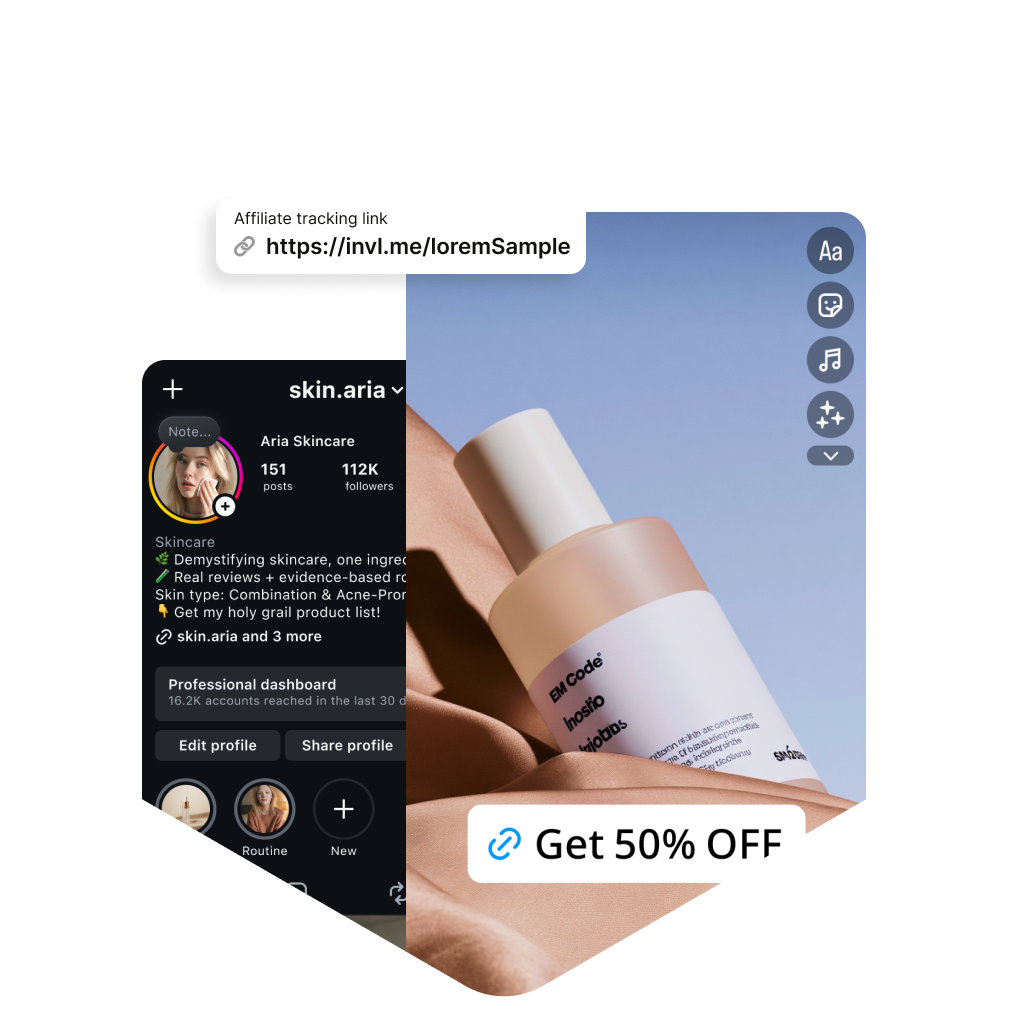
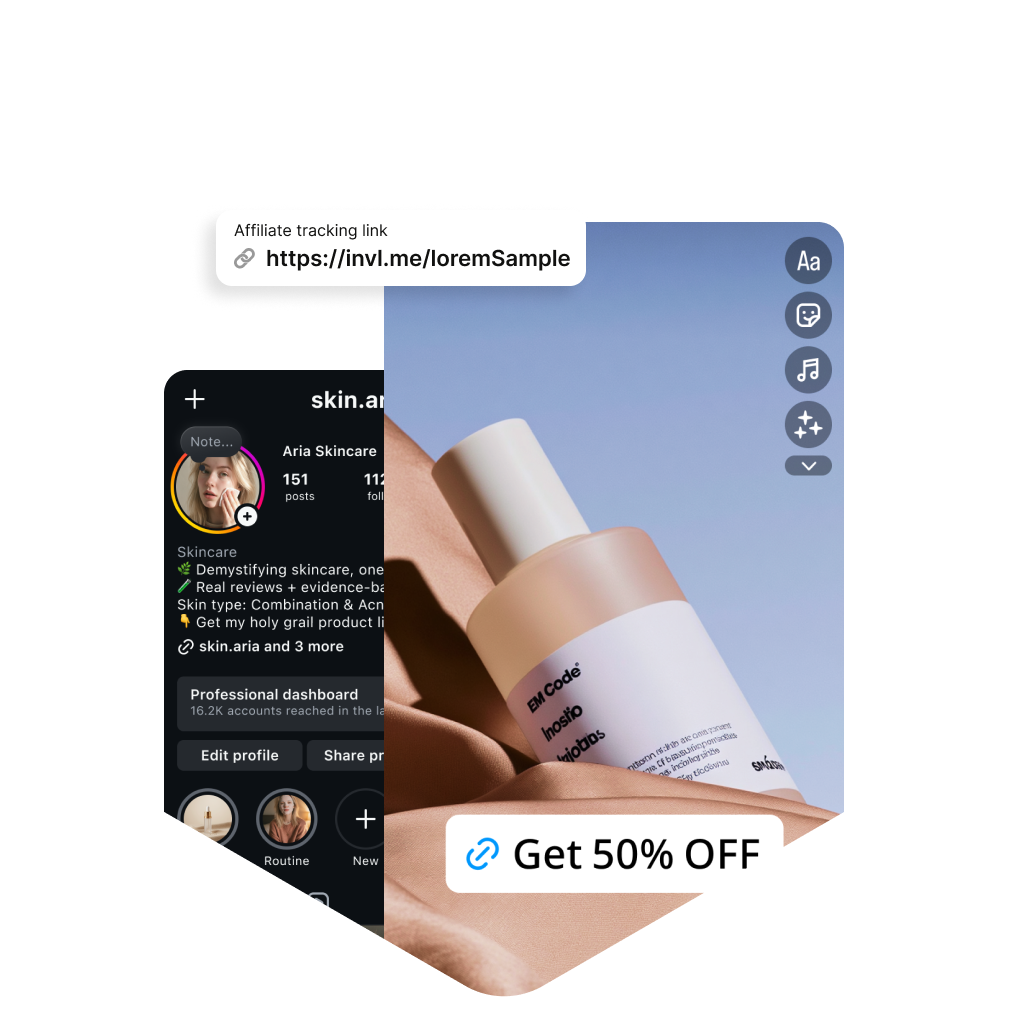
Update creator + tech hero images + cache-bust (?v=2)
Updated creator-partner-hero-image.png and tech-partner-hero-img.png (hero photos).
Same filenames, so append ?v=2 to the refs so the new images load past the cache.

Changed region(s): [[0.1229, 0.1843, 0.8603, 1.0]]

diff --git a/content-creators.jsx b/content-creators.jsx
@@ -41,7 +41,7 @@ function PubHero() {
         <div className="ph-visual" data-reveal data-reveal-delay="1">
           <span className="ph-hexglow" aria-hidden="true" />
           <span className="ph-hexplate" aria-hidden="true" />
-          <div className="ph-photo ph-photo-fill"><img src="media/figma/creator-partner-hero-image.png" alt="A content creator sharing product recommendations with her audience" loading="eager" /></div>
+          <div className="ph-photo ph-photo-fill"><img src="media/figma/creator-partner-hero-image.png?v=2" alt="A content creator sharing product recommendations with her audience" loading="eager" /></div>
         </div>
       </div>
 

diff --git a/technology-partners.jsx b/technology-partners.jsx
@@ -41,7 +41,7 @@ function PubHero() {
         <div className="ph-visual" data-reveal data-reveal-delay="1">
           <span className="ph-hexglow" aria-hidden="true" />
           <span className="ph-hexplate" aria-hidden="true" />
-          <div className="ph-photo ph-photo-fill"><img src="media/figma/tech-partner-hero-img.png" alt="A technology partner integrating Involve offers into their own product" loading="eager" /></div>
+          <div className="ph-photo ph-photo-fill"><img src="media/figma/tech-partner-hero-img.png?v=2" alt="A technology partner integrating Involve offers into their own product" loading="eager" /></div>
         </div>
       </div>
 
